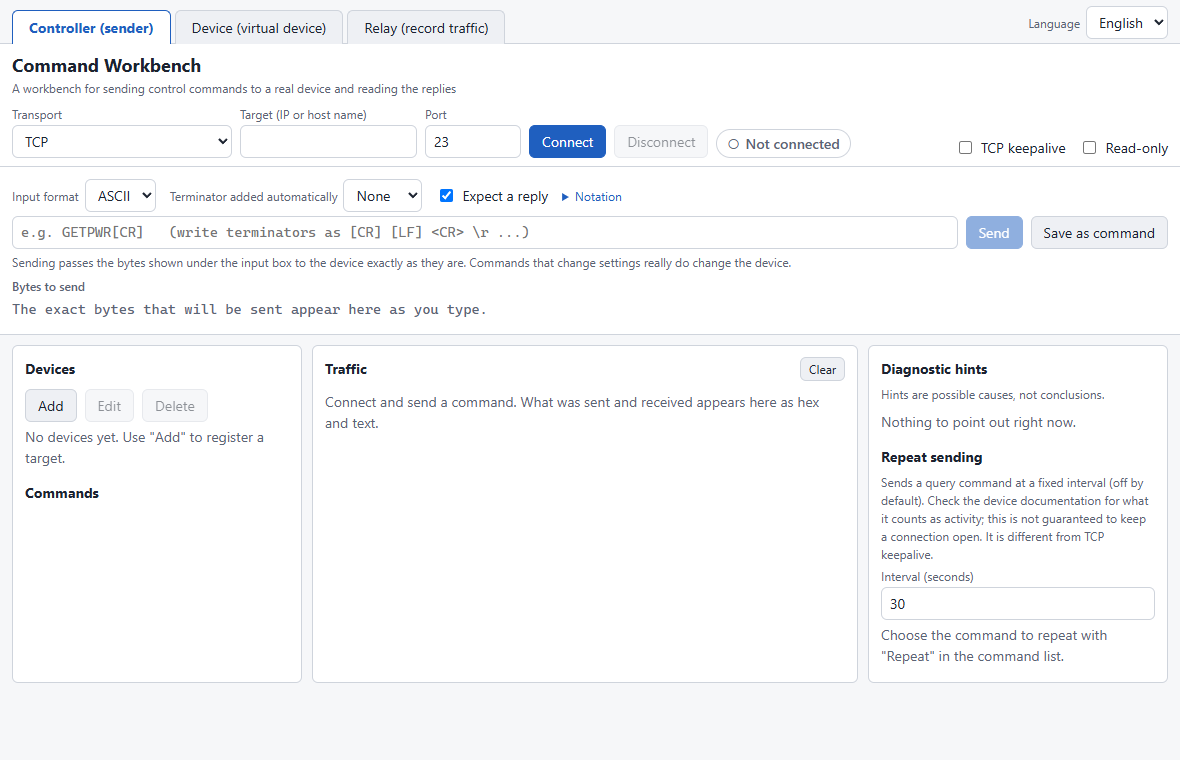
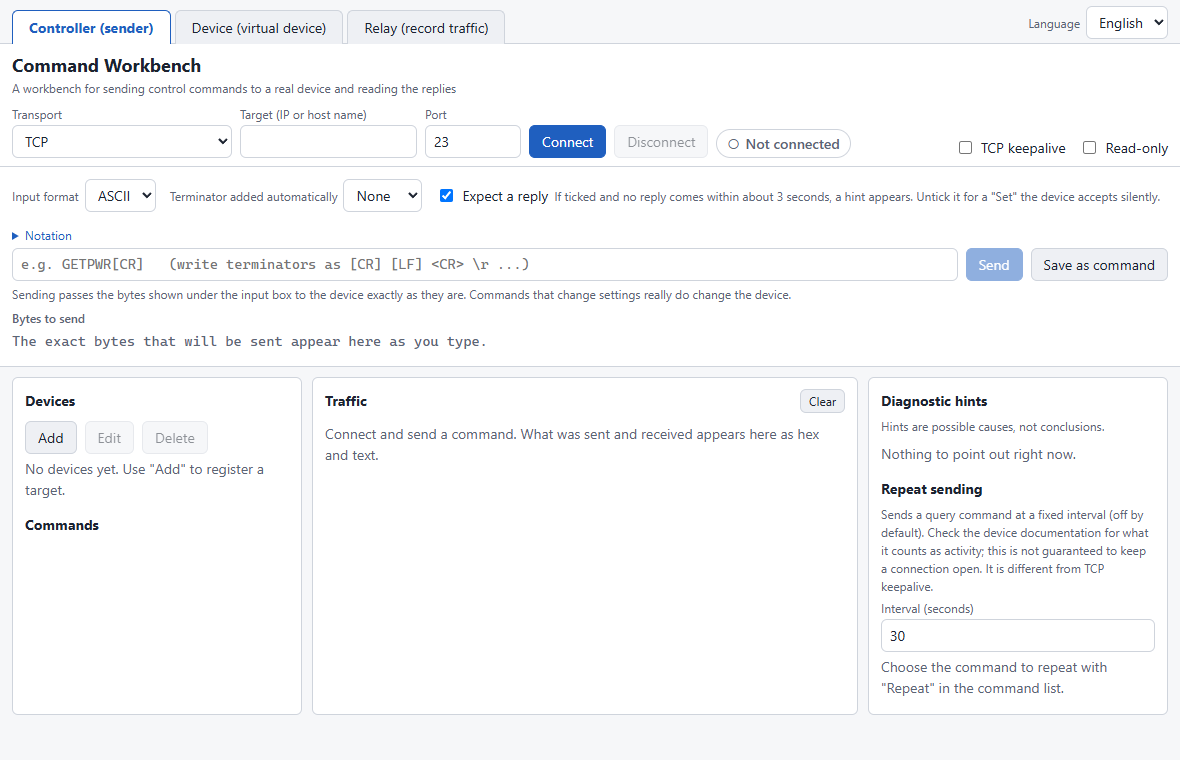
fix: put the kind help in the same order as the radio buttons and explain "expect a reply"
- The help text under the command kind listed "query" before "set" while
  the radio buttons show "set" first; both languages now follow the screen.
- Show a short visible explanation next to "Expect a reply" (composer and
  the save-command dialog): it only decides whether a hint appears when no
  reply comes within about three seconds.
- Re-take the manual screenshots that show the composer.

Changed region(s): [[0.0, 0.2724, 0.9763, 0.9079], [0.4576, 0.2421, 0.9763, 0.3934]]

diff --git a/src/renderer/i18n/ja.js b/src/renderer/i18n/ja.js
@@ -53,7 +53,7 @@
   'commands.kind': '区分',
   'commands.kind.query': '問い合わせ',
   'commands.kind.set': '設定',
-  'commands.kind.help': '問い合わせ: 機器の状態を変えない(読み出し)。設定: 機器の状態を変えうる。迷ったら「設定」にしてください。',
+  'commands.kind.help': '設定: 機器の状態を変えうる。問い合わせ: 機器の状態を変えない(読み出し)。迷ったら「設定」にしてください。',
   'commands.dialogTitle': 'コマンドに保存',
   'commands.name': '名前',
   'commands.save': '保存',
@@ -81,6 +81,7 @@
   'composer.terminator.lf': 'LF',
   'composer.terminator.crlf': 'CR+LF',
   'composer.expectsReply': '返答を待つ',
+  'composer.expectsReply.help': 'チェックありで約3秒返答がないと、ヒントを出します。成功しても黙る「設定」では外します。',
   'composer.placeholder.text': '例: GETPWR[CR]   (終端は [CR] [LF] <CR> \\r などで書けます)',
   'composer.placeholder.hex': '例: 47 45 54 50 57 52 0D',
   'composer.send': '送信',

diff --git a/src/renderer/i18n/en.js b/src/renderer/i18n/en.js
@@ -53,7 +53,7 @@
   'commands.kind': 'Kind',
   'commands.kind.query': 'Query',
   'commands.kind.set': 'Set',
-  'commands.kind.help': 'Query: does not change the device state (a read). Set: may change the device state. If unsure, choose "Set".',
+  'commands.kind.help': 'Set: may change the device state. Query: does not change the device state (a read). If unsure, choose "Set".',
   'commands.dialogTitle': 'Save as command',
   'commands.name': 'Name',
   'commands.save': 'Save',
@@ -81,6 +81,7 @@
   'composer.terminator.lf': 'LF',
   'composer.terminator.crlf': 'CR+LF',
   'composer.expectsReply': 'Expect a reply',
+  'composer.expectsReply.help': 'If ticked and no reply comes within about 3 seconds, a hint appears. Untick it for a "Set" the device accepts silently.',
   'composer.placeholder.text': 'e.g. GETPWR[CR]   (write terminators as [CR] [LF] <CR> \\r ...)',
   'composer.placeholder.hex': 'e.g. 47 45 54 50 57 52 0D',
   'composer.send': 'Send',

diff --git a/src/renderer/index.html b/src/renderer/index.html
@@ -95,6 +95,7 @@
       <label class="check">
         <input id="expects-reply" type="checkbox" checked>
         <span data-i18n="composer.expectsReply"></span>
+        <span class="muted small-text" data-i18n="composer.expectsReply.help"></span>
       </label>
       <details class="notation">
         <summary data-i18n="composer.help.title"></summary>
@@ -414,6 +415,7 @@
         <p class="muted small-text" data-i18n="commands.kind.help"></p>
       </fieldset>
       <label class="check"><input id="command-expects-reply" type="checkbox" checked> <span data-i18n="composer.expectsReply"></span></label>
+      <p class="muted small-text" data-i18n="composer.expectsReply.help"></p>
       <p id="command-error" class="error" role="alert"></p>
       <div class="row buttons end">
         <button type="button" id="command-cancel" data-i18n="commands.cancel"></button>
